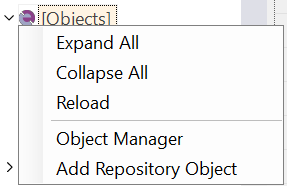
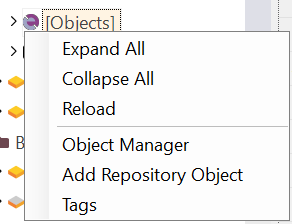
Updated object tree doc: "Tags" menu item described

Changed region(s): [[0.0, 0.0, 1.0, 0.9946]]

diff --git a/docs/Guide/object_tree.md b/docs/Guide/object_tree.md
@@ -32,6 +32,7 @@ This node represents framework [test cases](./Frameworks/frameworks.md#test-case
 
 ![Test Cases Root](./img/object_tree_context_testcases.png){width="266px"}
 
+
 - **Create Test Case** - Adds a new [test case](./Frameworks/frameworks.md#test-cases) to the root.
 - **Import Test Case** - [Imports a Test Case](./Frameworks/frameworks.md#importing-test-cases) to the root.
 - **Play All** - Runs all root test cases except those marked with `template` or `skip` tags.
@@ -39,6 +40,7 @@ This node represents framework [test cases](./Frameworks/frameworks.md#test-case
 - **Reveal in Explorer** - Opens the `TestCases` folder in your file explorer.
 - **Expand All** - Expands all nodes below.
 - **Collapse All** - Collapses all nodes below.
+- **Tags** - Edit default tags for the framework. Default tags are assigned to all newly created test cases.
 - **Reload** - Reloads all test cases (this may be needed if tests were synchronized with a remote repository).
 
 #### Test Cases Group Context Menu
@@ -63,6 +65,8 @@ This node represents framework [test cases](./Frameworks/frameworks.md#test-case
 - **Move** - Moves this test case into a new or existing folder (re-groups it).
 - **Rename** - Changes the alias name (the folder name will remain the same).
 - **Delete** - Removes the test case.
+- **Tags** - Edit tags for this test case.
+- **Add Repository Object** - add an object from the [template repository](./object_templates.md/#adding-repository-objects-from-template).
 
 #### Test Case Tags
 
@@ -138,7 +142,7 @@ This node displays shared assets, including common JavaScript files (`*.js`), Ob
 
 ![Shared File](./img/object_tree_context_shared_file.png){width="244px"}
 
-- **Rename** - Changes the name of a file.
+- **Rename** - Changes the name of a file. When you click **Rename** while holding the ++shift++ key, you can change both the file name and its extension. By default, the extension is hidden and preserved.
 - **Make a Copy** - Creates a duplicate shared file with identical contents.
 - **Remove from Disk** - Deletes the file from the test as well as from the disk.
 - **Reveal in Explorer** - Opens the file explorer and highlights this particular file.
@@ -195,8 +199,15 @@ Right-click an object in the **Object Tree** dialog to see:
 
 Right-click the **Object Tree** node to see:
 
-![Object Tree Root](./img/object_tree_context_singleroot.png){width="271px"}
+![Object Repository](./img/object_tree_context_singleroot.png){width="271px"}
 
 - **Reload** - Checks for new objects to display.
 - **Object Manager** - Runs an [Object Manager](object_manager.md).
 - **Add Repository Object** - Adds an object from a template to this repository. This menu item is only available when a [template repository](./object_templates.md) is defined for the current testing framework.
+- **Tags** - Repository tags (usually used to assign `shared` tag)
+
+### Context Menu (Shared Repository)
+
+![Shared Object Repository](./img/object_tree_shared_repository.png){width="271px"}
+
+- **Remove From Shared** - Unassign a `shared` tag.
